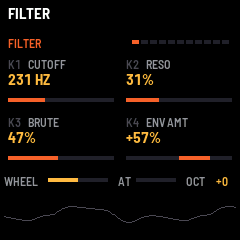
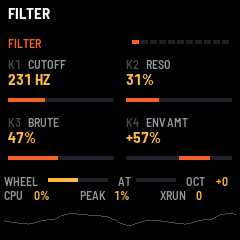
MB-1 0.1.1: the audio load on screen (CPU, PEAK, XRUN)
Claude-Session: https://claude.ai/code/session_015VhpbL4VK8RUpw8F1mPpMk

diff --git a/app/app.c b/app/app.c
@@ -800,6 +800,8 @@ static void bar(int32_t x, int32_t y, int32_t w, uint32_t v, uint32_t max, int b
     }
 }
 
+static uint32_t cpu_peak;
+
 static void draw(void)
 {
     char t[24];
@@ -855,11 +857,27 @@ static void draw(void)
     t[1] = (char)('0' + (set.octave < 0 ? -set.octave : set.octave));
     t[2] = 0;
     cv_text(216, 2, &FONT_XS, t, C_HI);
+    {                                        /* the audio load: now, the most since boot, and the blocks missed */
+        uint32_t c = plat_cpu_pct();
+        if (c > cpu_peak)
+            cpu_peak = c;
+        cv_text(4, 16, &FONT_XS, "CPU", C_GRAY);
+        int_text((int32_t)c, t);
+        text_cat(t, "%");
+        cv_text(34, 16, &FONT_XS, t, C_HI);
+        cv_text(80, 16, &FONT_XS, "PEAK", C_GRAY);
+        int_text((int32_t)cpu_peak, t);
+        text_cat(t, "%");
+        cv_text(114, 16, &FONT_XS, t, C_HI);
+        cv_text(160, 16, &FONT_XS, "XRUN", C_GRAY);
+        int_text((int32_t)plat_xruns(), t);
+        cv_text(196, 16, &FONT_XS, t, plat_xruns() ? C_ACCENT : C_HI);
+    }
     {
         uint32_t w = scope_w, j;
         int32_t prev = 0;
         for (j = 0; j < 232u; j++) {
-            int32_t s = scope_cap[(w - 464u + 2u * j) % SCOPE_N], y = 42 - s * 20 / 32768;
+            int32_t s = scope_cap[(w - 464u + 2u * j) % SCOPE_N], y = 47 - s * 15 / 32768;
             if (j)
                 cv_line(3 + (int32_t)j, prev, 4 + (int32_t)j, y, C_DIM);
             prev = y;
@@ -896,7 +914,7 @@ void app_frame(void)
         ui.msg_until = 0;
         ui.redraw = 1;
     }
-    if (voice_note >= 0 && now - ui.last_scope >= 50u) {   /* the scope moves while a note sounds */
+    if (now - ui.last_scope >= (voice_note >= 0 ? 50u : 500u)) {   /* the scope moves while a note sounds; the load */
         ui.last_scope = now;
         ui.redraw = 1;
     }

diff --git a/app/docs/MANUAL.md b/app/docs/MANUAL.md
@@ -9,7 +9,7 @@ another, let it go, and the first comes back (with glide, if GLIDE is up).
 
 At the top: the patch slot and its name (a `*` when it has changed since it was saved) and the note playing. In the
 middle: the page, and its four parameters, one for each of K1..K4, with their values and bars. At the bottom: the mod
-wheel, the keys' pressure (aftertouch), the octave, and the sound as a scope.
+wheel, the keys' pressure (aftertouch), the octave, the audio load (CPU: now, PEAK: the most since power-on, in % of the time the FM-1 has for each block of sound; XRUN: blocks it missed, heard as clicks), and the sound as a scope.
 
 ## The controls
 
